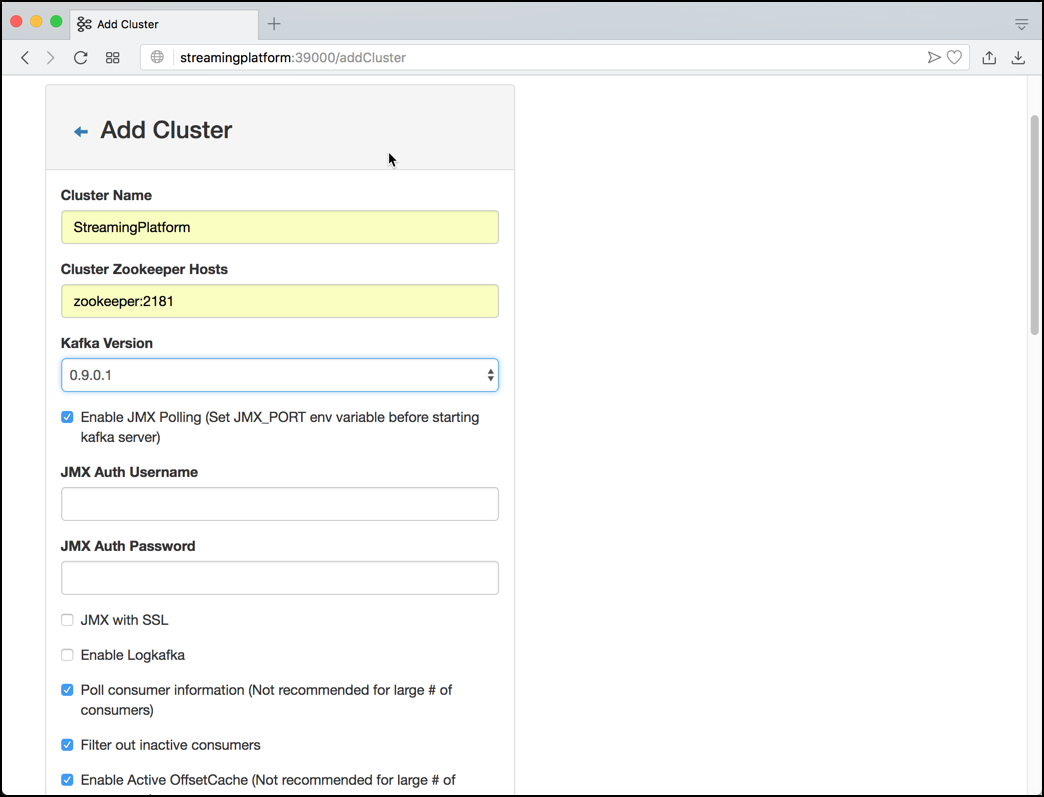
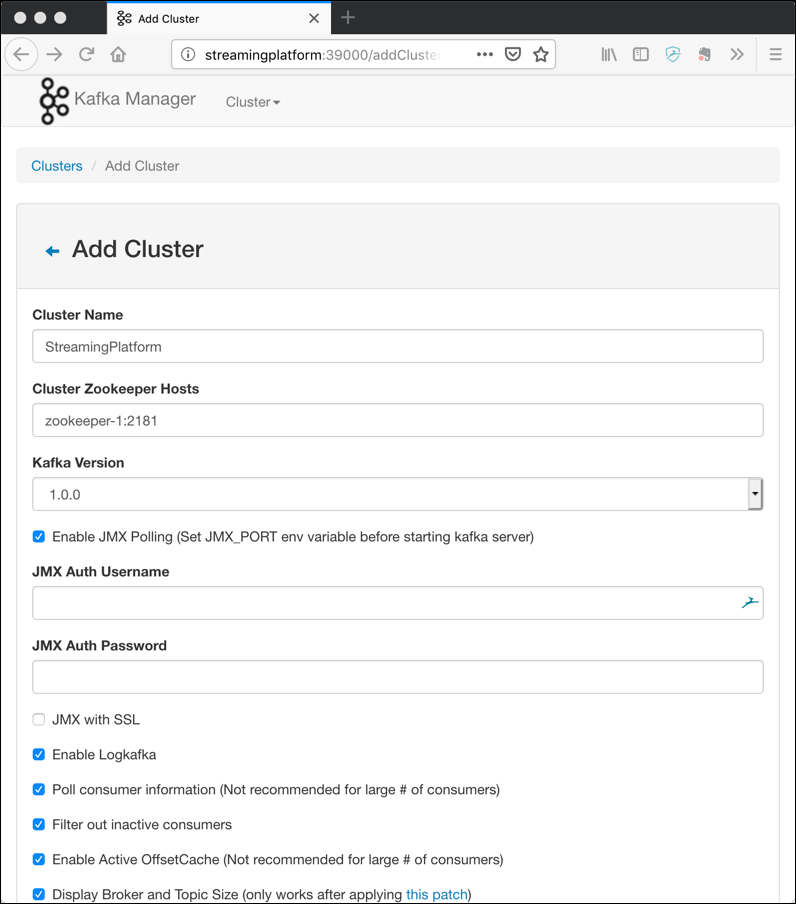
replace zookeeper by zookeeper-1

diff --git a/01-environment/README.md b/01-environment/README.md
@@ -57,9 +57,9 @@ Copy the code from below and paste it into a docker-compose.yml file. Alternativ
 
 version: '2'
 services:
-  zookeeper:
+  zookeeper-1:
     image: confluentinc/cp-zookeeper:5.1.0
-    hostname: zookeeper
+    hostname: zookeeper-1
     ports:
       - "2181:2181"
     environment:
@@ -71,13 +71,13 @@ services:
     image: confluentinc/cp-enterprise-kafka:5.1.0
     hostname: broker-1
     depends_on:
-      - zookeeper
+      - zookeeper-1
     ports:
       - "9092:9092"
     environment:
       KAFKA_BROKER_ID: 1
       KAFKA_BROKER_RACK: 'r1'
-      KAFKA_ZOOKEEPER_CONNECT: 'zookeeper:2181'
+      KAFKA_ZOOKEEPER_CONNECT: 'zookeeper-1:2181'
       KAFKA_ADVERTISED_LISTENERS: 'PLAINTEXT://${DOCKER_HOST_IP}:9092'
       KAFKA_METRIC_REPORTERS: io.confluent.metrics.reporter.ConfluentMetricsReporter
       KAFKA_OFFSETS_TOPIC_REPLICATION_FACTOR: 3
@@ -86,7 +86,7 @@ services:
       KAFKA_AUTO_CREATE_TOPICS_ENABLE: 'false'
       KAFKA_JMX_PORT: 9994
       CONFLUENT_METRICS_REPORTER_BOOTSTRAP_SERVERS: broker-1:9092
-      CONFLUENT_METRICS_REPORTER_ZOOKEEPER_CONNECT: zookeeper:2181
+      CONFLUENT_METRICS_REPORTER_ZOOKEEPER_CONNECT: zookeeper-1:2181
       CONFLUENT_METRICS_REPORTER_TOPIC_REPLICAS: 1
       CONFLUENT_METRICS_ENABLE: 'true'
       CONFLUENT_SUPPORT_CUSTOMER_ID: 'anonymous'
@@ -96,13 +96,13 @@ services:
     image: confluentinc/cp-enterprise-kafka:5.1.0
     hostname: broker-2
     depends_on:
-      - zookeeper
+      - zookeeper-1
     ports:
       - "9093:9093"
     environment:
       KAFKA_BROKER_ID: 2
       KAFKA_BROKER_RACK: 'r1'
-      KAFKA_ZOOKEEPER_CONNECT: 'zookeeper:2181'
+      KAFKA_ZOOKEEPER_CONNECT: 'zookeeper-1:2181'
       KAFKA_ADVERTISED_LISTENERS: 'PLAINTEXT://${DOCKER_HOST_IP}:9093'
       KAFKA_METRIC_REPORTERS: io.confluent.metrics.reporter.ConfluentMetricsReporter
       KAFKA_OFFSETS_TOPIC_REPLICATION_FACTOR: 3
@@ -111,7 +111,7 @@ services:
       KAFKA_AUTO_CREATE_TOPICS_ENABLE: 'false'
       KAFKA_JMX_PORT: 9993
       CONFLUENT_METRICS_REPORTER_BOOTSTRAP_SERVERS: broker-2:9093
-      CONFLUENT_METRICS_REPORTER_ZOOKEEPER_CONNECT: zookeeper:2181
+      CONFLUENT_METRICS_REPORTER_ZOOKEEPER_CONNECT: zookeeper-1:2181
       CONFLUENT_METRICS_REPORTER_TOPIC_REPLICAS: 1
       CONFLUENT_METRICS_ENABLE: 'true'
       CONFLUENT_SUPPORT_CUSTOMER_ID: 'anonymous'
@@ -121,13 +121,13 @@ services:
     image: confluentinc/cp-enterprise-kafka:5.1.0
     hostname: broker-3
     depends_on:
-      - zookeeper
+      - zookeeper-1
     ports:
       - "9094:9094"
     environment:
       KAFKA_BROKER_ID: 3
       KAFKA_BROKER_RACK: 'r1'
-      KAFKA_ZOOKEEPER_CONNECT: 'zookeeper:2181'
+      KAFKA_ZOOKEEPER_CONNECT: 'zookeeper-1:2181'
       KAFKA_ADVERTISED_LISTENERS: 'PLAINTEXT://${DOCKER_HOST_IP}:9094'
       KAFKA_METRIC_REPORTERS: io.confluent.metrics.reporter.ConfluentMetricsReporter
       KAFKA_OFFSETS_TOPIC_REPLICATION_FACTOR: 3
@@ -136,7 +136,7 @@ services:
       KAFKA_AUTO_CREATE_TOPICS_ENABLE: 'false'
       KAFKA_JMX_PORT: 9992
       CONFLUENT_METRICS_REPORTER_BOOTSTRAP_SERVERS: broker-3:9094
-      CONFLUENT_METRICS_REPORTER_ZOOKEEPER_CONNECT: zookeeper:2181
+      CONFLUENT_METRICS_REPORTER_ZOOKEEPER_CONNECT: zookeeper-1:2181
       CONFLUENT_METRICS_REPORTER_TOPIC_REPLICAS: 1
       CONFLUENT_METRICS_ENABLE: 'true'
       CONFLUENT_SUPPORT_CUSTOMER_ID: 'anonymous'
@@ -146,13 +146,13 @@ services:
     image: confluentinc/cp-schema-registry:5.1.0
     hostname: schema-registry
     depends_on:
-      - zookeeper
+      - zookeeper-1
       - broker-1
     ports:
       - "8081:8081"
     environment:
       SCHEMA_REGISTRY_HOST_NAME: schema-registry
-      SCHEMA_REGISTRY_KAFKASTORE_CONNECTION_URL: 'zookeeper:2181'
+      SCHEMA_REGISTRY_KAFKASTORE_CONNECTION_URL: 'zookeeper-1:2181'
       SCHEMA_REGISTRY_ACCESS_CONTROL_ALLOW_ORIGIN: '*'
       SCHEMA_REGISTRY_ACCESS_CONTROL_ALLOW_METHODS: 'GET,POST,PUT,OPTIONS'
     restart: always
@@ -161,7 +161,7 @@ services:
     image: confluentinc/cp-kafka-connect:5.1.0
     hostname: connect-1
     depends_on:
-      - zookeeper
+      - zookeeper-1
       - broker-1
       - schema-registry
     ports:
@@ -184,7 +184,7 @@ services:
       CONNECT_VALUE_CONVERTER_SCHEMA_REGISTRY_URL: 'http://schema_registry:8081'
       CONNECT_INTERNAL_KEY_CONVERTER: org.apache.kafka.connect.json.JsonConverter
       CONNECT_INTERNAL_VALUE_CONVERTER: org.apache.kafka.connect.json.JsonConverter
-      CONNECT_ZOOKEEPER_CONNECT: 'zookeeper:2181'
+      CONNECT_ZOOKEEPER_CONNECT: 'zookeeper-1:2181'
       CONNECT_PLUGIN_PATH: "/usr/share/java,/etc/kafka-connect/custom-plugins"
       CONNECT_LOG4J_ROOT_LOGLEVEL: INFO
       CLASSPATH: /usr/share/java/monitoring-interceptors/monitoring-interceptors-4.0.0.jar
@@ -196,7 +196,7 @@ services:
     image: confluentinc/cp-kafka-connect:5.1.0
     hostname: connect-2
     depends_on:
-      - zookeeper
+      - zookeeper-1
       - broker-1
       - schema-registry
     ports:
@@ -219,7 +219,7 @@ services:
       CONNECT_VALUE_CONVERTER_SCHEMA_REGISTRY_URL: 'http://schema_registry:8081'
       CONNECT_INTERNAL_KEY_CONVERTER: org.apache.kafka.connect.json.JsonConverter
       CONNECT_INTERNAL_VALUE_CONVERTER: org.apache.kafka.connect.json.JsonConverter
-      CONNECT_ZOOKEEPER_CONNECT: 'zookeeper:2181'
+      CONNECT_ZOOKEEPER_CONNECT: 'zookeeper-1:2181'
       CONNECT_PLUGIN_PATH: "/usr/share/java,/etc/kafka-connect/custom-plugins"
       CONNECT_LOG4J_ROOT_LOGLEVEL: INFO
       CLASSPATH: /usr/share/java/monitoring-interceptors/monitoring-interceptors-4.0.0.jar
@@ -286,11 +286,11 @@ services:
     image: trivadisbds/kafka-manager
     hostname: kafka-manager
     depends_on:
-      - zookeeper
+      - zookeeper-1
     ports:
       - "39000:9000"
     environment:
-      ZK_HOSTS: 'zookeeper:2181'
+      ZK_HOSTS: 'zookeeper-1:2181'
       APPLICATION_SECRET: 'letmein'
     restart: always
 
@@ -318,7 +318,7 @@ services:
     ports:
       - "9020:9020" 
     environment:
-      ZK_HOSTS: zookeeper:2181
+      ZK_HOSTS: zookeeper-1:2181
       LISTEN: 9020
     restart: always
 

diff --git a/02-working-with-kafka-broker/README.md b/02-working-with-kafka-broker/README.md
@@ -28,7 +28,7 @@ First, let's list the topics availble on a given Kafka Cluster.
 For that we use the `kafka-topics` utility with the `--list` option. 
 
 ```
-kafka-topics --list --zookeeper zookeeper:2181
+kafka-topics --list --zookeeper zookeeper-1:2181
 ```
 We can see that there are some techical topics, _schemas being the one, where the Confluent Schema Registry stores its schemas. 
 
@@ -39,7 +39,7 @@ Now let's create a new topic. For that we again use the `kafka-topics` utility b
 ```
 kafka-topics --create \
 			--if-not-exists \
-			--zookeeper zookeeper:2181 \
+			--zookeeper zookeeper-1:2181 \
 			--topic test-topic \
 			--partitions 6 \
 			--replication-factor 2
@@ -50,7 +50,7 @@ Re-Run the command to list the topics. You should see the new topic you have jus
 ### Describe a Topic
 
 ```
-kafka-topics --describe --zookeeper zookeeper:2181 --topic test-topic
+kafka-topics --describe --zookeeper zookeeper-1:2181 --topic test-topic
 ```
 
 ```
@@ -158,8 +158,10 @@ Enter your messages so that a key and messages are separated by a comma, i.e. `k
 A Kafka topic can be droped using the `kafka-topics` utility with the `--delete` option. 
 
 ```
-kafka-topics --zookeeper zookeeper:2181 --delete --topic test-topic
+kafka-topics --zookeeper zookeeper-1:2181 --delete --topic test-topic
 ```
+
+The delete only works if the server property `delete.topic.enable` is set to `true`. This is the case with the streaming platform as setup in chapter 1.
 
 ## Working with the Kafkacat utility
 [Kafkacat](https://docs.confluent.io/current/app-development/kafkacat-usage.html#kafkacat-usage) is a command line utility that you can use to test and debug Apache Kafka deployments. You can use `kafkacat` to produce, consume, and list topic and partition information for Kafka. Described as “netcat for Kafka”, it is a swiss-army knife of tools for inspecting and creating data in Kafka.
@@ -337,12 +339,14 @@ Navigate to the **Cluster** menu and click on the drop-down and select **Add Clu
 The **Add Cluster** details page should be displayed. Enter the following values into the edit fields / drop down windows:
 
   * **Cluster Name**: Streaming Platform
-  * **Custer Zookeeper Hosts**: zookeeper:2181
+  * **Custer Zookeeper Hosts**: zookeeper-1:2181
   * **Kafka Version**: 0.10.2.1
 
-Select the **Enable JMX Polling**, **Poll consumer information**, **Filter out inactive consumers**, **Enable Active OffsetCache** and **Display Broker and Topic Size** and click on **Save** to add the cluster. 
+Select the **Enable JMX Polling**, **Enable Logkafka**, **Poll consumer information**, **Filter out inactive consumers**, **Enable Active OffsetCache** and **Display Broker and Topic Size**.
 
 ![Alt Image Text](./images/kafka-manager-add-cluster2.png "Kafka Manager Add Cluster2")
+
+Click on **Save** to add the cluster. 
 
 ![Alt Image Text](./images/kafka-manager-cluster-added.png "Kafka Manager Add Cluster2")
 

diff --git a/99-misc/README.md b/99-misc/README.md
@@ -20,13 +20,13 @@
                        /etc/confluent/docker/configure && \
                        cub kafka-ready -b kafka1:9091 1 60 --config /etc/kafka/kafka.properties && \
                        sleep 5 && \
-                       kafka-topics --zookeeper zookeeper:2181 --topic users --create --replication-factor 2 --partitions 2 && \
-                       kafka-topics --zookeeper zookeeper:2181 --topic wikipedia.parsed --create --replication-factor 2 --partitions 2 && \
-                       kafka-topics --zookeeper zookeeper:2181 --topic wikipedia.failed --create --replication-factor 2 --partitions 2 && \
-                       kafka-topics --zookeeper zookeeper:2181 --topic WIKIPEDIABOT --create --replication-factor 2 --partitions 2 && \
-                       kafka-topics --zookeeper zookeeper:2181 --topic WIKIPEDIANOBOT --create --replication-factor 2 --partitions 2 && \
-                       kafka-topics --zookeeper zookeeper:2181 --topic EN_WIKIPEDIA_GT_1 --create --replication-factor 2 --partitions 2 && \
-                       kafka-topics --zookeeper zookeeper:2181 --topic EN_WIKIPEDIA_GT_1_COUNTS --create --replication-factor 2 --partitions 2'"
+                       kafka-topics --zookeeper zookeeper-1:2181 --topic users --create --replication-factor 2 --partitions 2 && \
+                       kafka-topics --zookeeper zookeeper-1:2181 --topic wikipedia.parsed --create --replication-factor 2 --partitions 2 && \
+                       kafka-topics --zookeeper zookeeper-1:2181 --topic wikipedia.failed --create --replication-factor 2 --partitions 2 && \
+                       kafka-topics --zookeeper zookeeper-1:2181 --topic WIKIPEDIABOT --create --replication-factor 2 --partitions 2 && \
+                       kafka-topics --zookeeper zookeeper-1:2181 --topic WIKIPEDIANOBOT --create --replication-factor 2 --partitions 2 && \
+                       kafka-topics --zookeeper zookeeper-1:2181 --topic EN_WIKIPEDIA_GT_1 --create --replication-factor 2 --partitions 2 && \
+                       kafka-topics --zookeeper zookeeper-1:2181 --topic EN_WIKIPEDIA_GT_1_COUNTS --create --replication-factor 2 --partitions 2'"
     environment:
       # The following settings are listed here only to satisfy the image's requirements.
       # We override the image's `command` anyways, hence this container will not start a broker.

diff --git a/07-iot-data-ingestion-over-mqtt/README.md b/07-iot-data-ingestion-over-mqtt/README.md
@@ -104,7 +104,7 @@ docker exec -ti streamingplatform_broker-1_1 bash
 Now using the `kafka-topics` command, create the truck_position topic. 
 
 ```
-kafka-topics --zookeeper zookeeper:2181 --create --topic truck_position --partitions 8 --replication-factor 2
+kafka-topics --zookeeper zookeeper-1:2181 --create --topic truck_position --partitions 8 --replication-factor 2
 ```
 
 After successful creation, start a kafka-console-consumer to listen on messages on the truck_position topic. 
@@ -130,7 +130,7 @@ Therefore change the definition of the `connect` service in the `docker-compose.
     image: confluentinc/cp-kafka-connect:5.0.0
     hostname: connect
     depends_on:
-      - zookeeper
+      - zookeeper-1
       - broker-1
       - schema_registry
     ports:
@@ -153,7 +153,7 @@ Therefore change the definition of the `connect` service in the `docker-compose.
       CONNECT_VALUE_CONVERTER_SCHEMA_REGISTRY_URL: 'http://schema_registry:8081'
       CONNECT_INTERNAL_KEY_CONVERTER: org.apache.kafka.connect.json.JsonConverter
       CONNECT_INTERNAL_VALUE_CONVERTER: org.apache.kafka.connect.json.JsonConverter
-      CONNECT_ZOOKEEPER_CONNECT: 'zookeeper:2181'
+      CONNECT_ZOOKEEPER_CONNECT: 'zookeeper-1:2181'
       CONNECT_PLUGIN_PATH: "/usr/share/java,/etc/kafka-connect/custom-plugins"
       CONNECT_LOG4J_ROOT_LOGLEVEL: INFO
       CLASSPATH: /usr/share/java/monitoring-interceptors/monitoring-interceptors-4.0.0.jar

diff --git a/09-static-data-ingestion/README.md b/09-static-data-ingestion/README.md
@@ -79,7 +79,7 @@ docker exec -ti streamingplatform_broker-1_1 bash
 And then perform the `kafka-topics --create` command:
 
 ```
-kafka-topics --zookeeper zookeeper:2181 --create --topic truck_driver --partitions 8 --replication-factor 2 --config cleanup.policy=compact --config segment.ms=100 --config delete.retention.ms=100 --config min.cleanable.dirty.ratio=0.001
+kafka-topics --zookeeper zookeeper-1:2181 --create --topic truck_driver --partitions 8 --replication-factor 2 --config cleanup.policy=compact --config segment.ms=100 --config delete.retention.ms=100 --config min.cleanable.dirty.ratio=0.001
 ```
 
 Eventhough we have no messages yet, let's create a consumer wich reads the new topic from the beginning. 

diff --git a/08-stream-processing-using-ksql/README.md b/08-stream-processing-using-ksql/README.md
@@ -101,7 +101,7 @@ docker exec -ti docker_broker-1_1 bash
 And perform the following `kafka-topics` command creating a new `dangerous_driving_ksql` topic in Kafka.
 
 ```
-kafka-topics --zookeeper zookeeper:2181 --create --topic dangerous_driving_ksql --partitions 8 --replication-factor 2
+kafka-topics --zookeeper zookeeper-1:2181 --create --topic dangerous_driving_ksql --partitions 8 --replication-factor 2
 ```
 
 Now let's publish to that topic from KSQL. For that we can create a new Stream. Instead of creating it on an existing topic as we have done before, we use the `CREATE STREAM ... AS SELECT ...` variant. 

diff --git a/05-working-with-avro-and-java/README.md b/05-working-with-avro-and-java/README.md
@@ -188,14 +188,14 @@ kafka-topics --create \
     --replication-factor 3 \
     --partitions 8 \
     --topic test-java-avro-topic \
-    --zookeeper zookeeper:2181
+    --zookeeper zookeeper-1:2181
 ```
 
 Cross check that the topic has been created.
 
 ```
 kafka-topics --list \
-    --zookeeper zookeeper:2181
+    --zookeeper zookeeper-1:2181
 ```
 
 This finishes the setup steps and our new project is ready to be used. Next we will start implementing the **Kafka Producer** which uses Avro for the serialization. 

diff --git a/06a-working-with-nodejs/README.md b/06a-working-with-nodejs/README.md
@@ -39,14 +39,14 @@ kafka-topics --create \
     --replication-factor 3 \
     --partitions 8 \
     --topic test-node-topic \
-    --zookeeper zookeeper:2181
+    --zookeeper zookeeper-1:2181
 ```
 
 Cross check that the topic has been created.
 
 ```
 kafka-topics --list \
-    --zookeeper zookeeper:2181
+    --zookeeper zookeeper-1:2181
 ```
 
 This finishes the setup steps and our new project is ready to be used. Next we will start implementing the **Kafka Producer** which uses Avro for the serialization. 

diff --git a/04-producing-consuming-kafka-with-java/README.md b/04-producing-consuming-kafka-with-java/README.md
@@ -159,14 +159,14 @@ kafka-topics --create \
     --replication-factor 3 \
     --partitions 8 \
     --topic test-java-topic \
-    --zookeeper zookeeper:2181
+    --zookeeper zookeeper-1:2181
 ```
 
 Cross check that the topic has been created.
 
 ```
 kafka-topics --list \
-    --zookeeper zookeeper:2181
+    --zookeeper zookeeper-1:2181
 ```
 
 This finishes the setup steps and our new project is ready to be used. Next we will start implementing a **Kafka Producer**.

diff --git a/03-understanding-failover/README.md b/03-understanding-failover/README.md
@@ -17,7 +17,7 @@ And create the topic.
 
 ```
 kafka-topics --create \
-    --zookeeper zookeeper:2181 \
+    --zookeeper zookeeper-1:2181 \
     --replication-factor 3 \
     --partitions 8 \
     --topic failsafe-test-topic
@@ -175,7 +175,7 @@ And create the topic.
 ```
 kafka-topics --describe \
     --topic failsafe-test-topic \
-    --zookeeper zookeeper:2181
+    --zookeeper zookeeper-1:2181
 ```    
 
 ```

diff --git a/06-producing-consuming-kafka-with-python/README.md b/06-producing-consuming-kafka-with-python/README.md
@@ -126,7 +126,7 @@ In order to separate the Avro tests from the other tests, lets create a new topi
 ```
 kafka-topics --create \
 			--if-not-exists \
-			--zookeeper zookeeper:2181 \
+			--zookeeper zookeeper-1:2181 \
 			--topic test-avro-topic \
 			--partitions 6 \
 			--replication-factor 2
